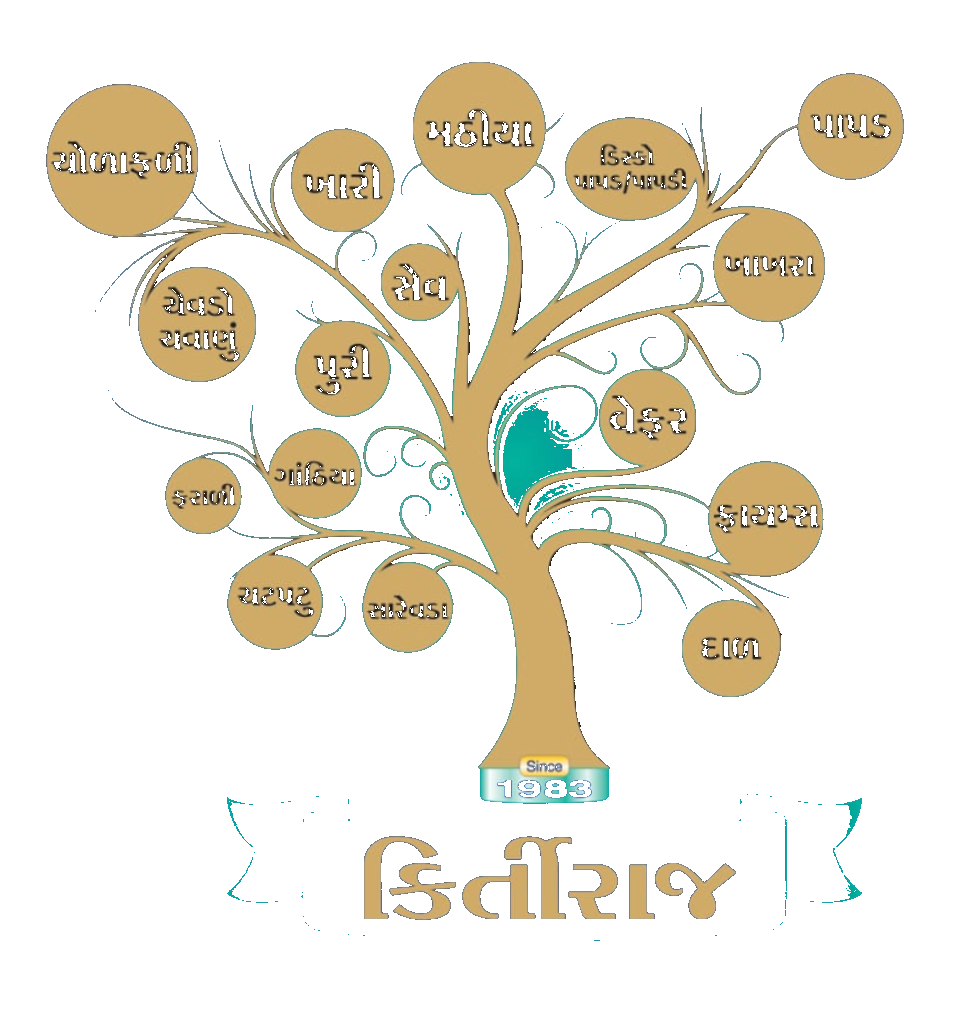
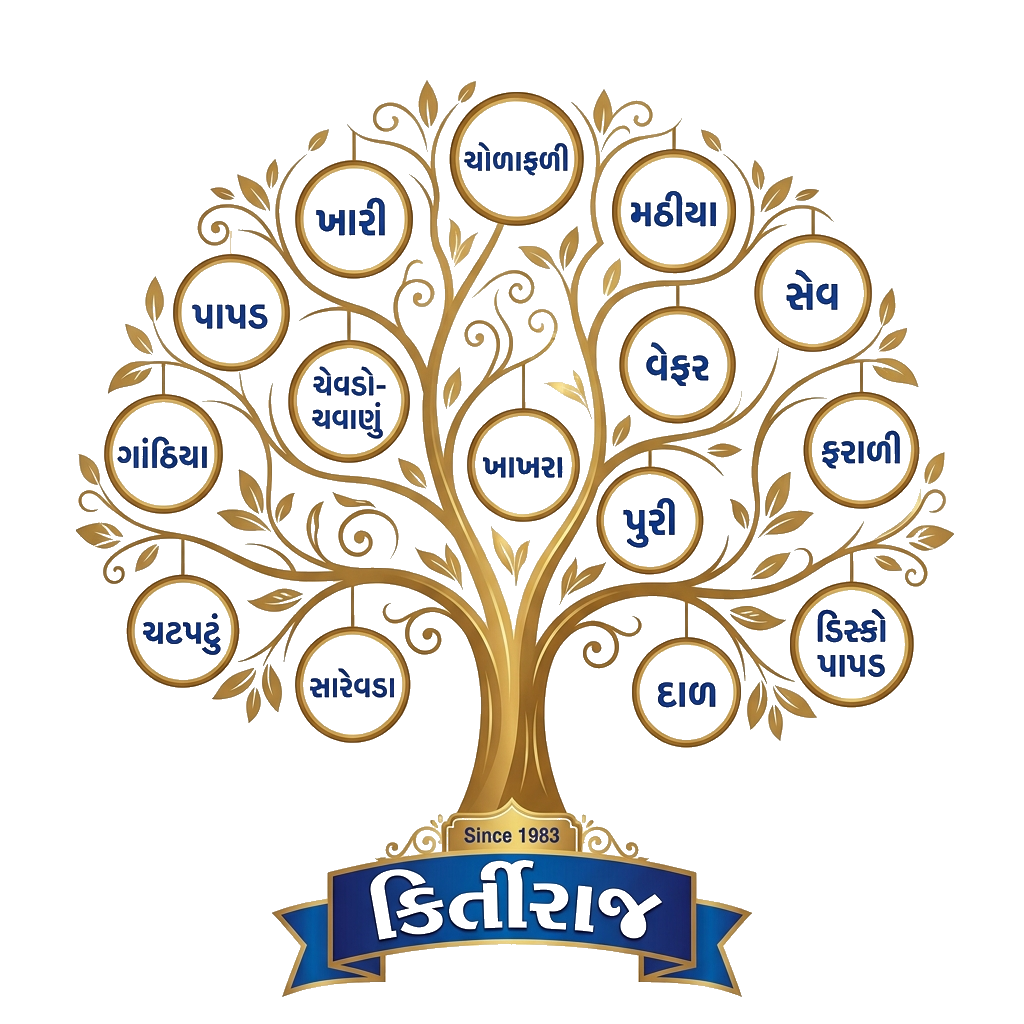
Finalize hero section with high-fidelity transparent product tree PNG

diff --git a/docs/index.html b/docs/index.html
@@ -248,43 +248,14 @@
 
         .hero-brand-img {
             width: 100%;
-            filter: drop-shadow(0 15px 35px rgba(0,0,0,0.12));
+            filter: drop-shadow(0 20px 40px rgba(0,0,0,0.15));
             animation: float 4s ease-in-out infinite;
         }
 
         @media (max-width: 768px) {
             .tree-wrapper {
                 max-width: 350px;
-                margin-bottom: -20px;
-            }
-        }
-
-        .logo-overlay {
-            position: absolute;
-            bottom: 50px;
-            left: 50%;
-            transform: translateX(-50%);
-            width: 280px;
-            z-index: 10;
-        }
-
-        .hero-brand-img {
-            width: 100%;
-            filter: drop-shadow(0 10px 20px rgba(0,0,0,0.1));
-            animation: float 3s ease-in-out infinite;
-        }
-
-        @media (max-width: 768px) {
-            .tree-wrapper {
-                max-width: 350px;
-                margin-bottom: -20px;
-            }
-            .logo-overlay {
-                width: 180px;
-                bottom: 30px;
-            }
-            .bubble text {
-                font-size: 11px;
+                margin-bottom: -30px;
             }
         }
 
